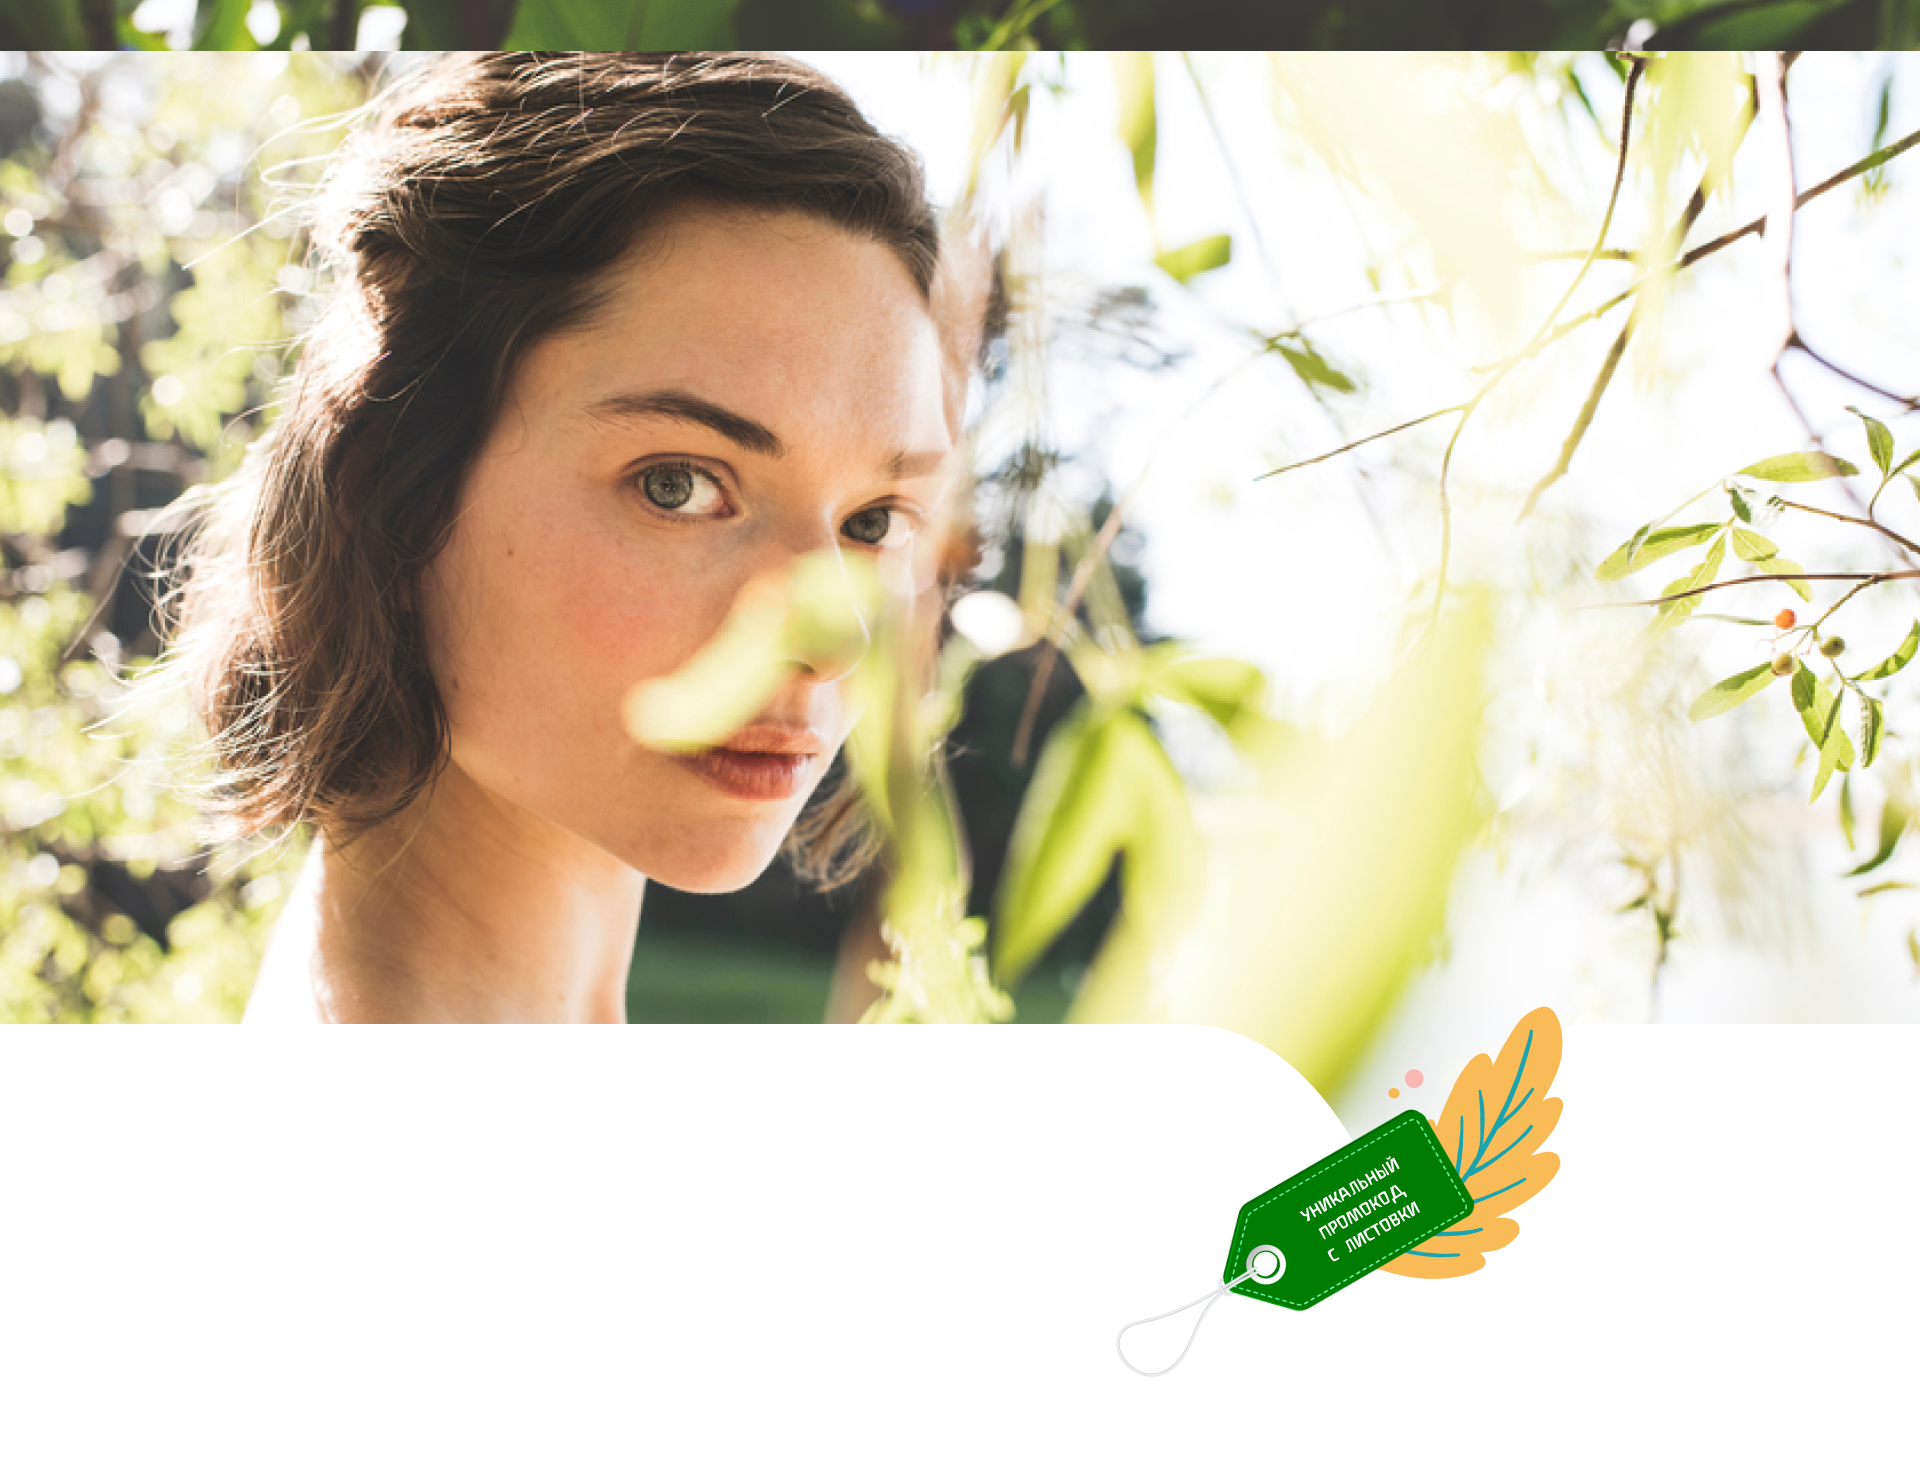
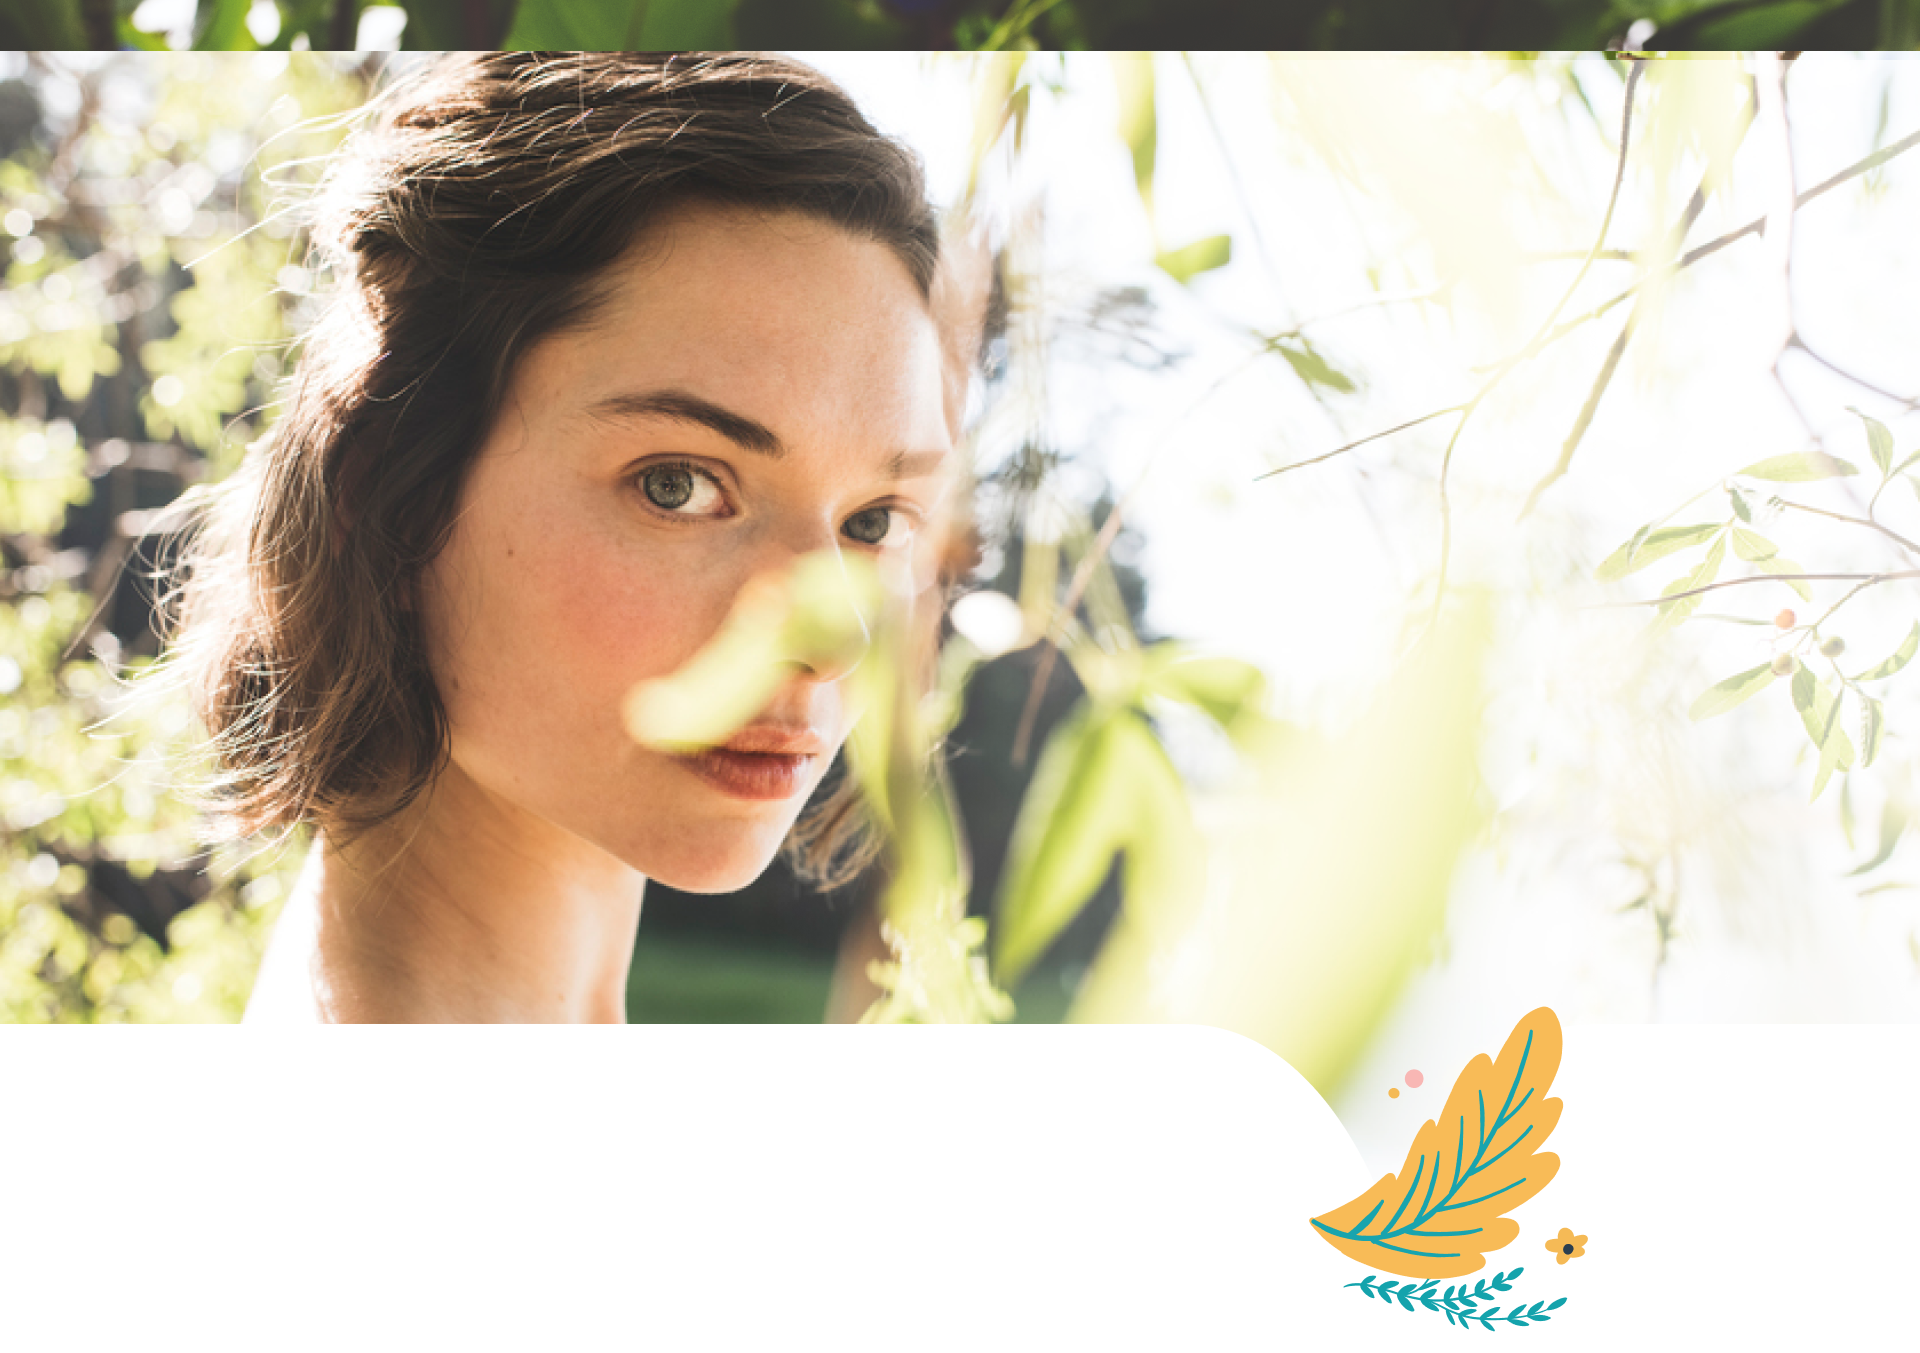
fix main page

diff --git a/dev/components/Roadmap/Roadmap.scss b/dev/components/Roadmap/Roadmap.scss
@@ -33,6 +33,17 @@ p, h3{
             margin-right: 6px;
             padding-bottom: 91px;
             padding-left: 51px;
+            position: relative;
+            .imgWrap{
+                //max-width: 36.4%;
+                img{
+                    position: absolute;
+                    //height: 448px;
+                    right: -3px;
+                    bottom: -120px;
+                    
+                }
+            }
             .RoadmapNumb{
                 color: rgba(244, 186, 86, 0.25);
                 left: -26px;
@@ -122,7 +133,7 @@ p, h3{
             margin-right: 3px;
             padding-top: 12px;
             padding-left: 55px;
-            &::before{
+            &::after{
                 content: '';
                 position: absolute;
                 background-color: #fff;
@@ -138,7 +149,9 @@ p, h3{
                 left: -24px;
                 z-index: 1;
                 width: 182px;
-                text-align:right;
+                text-align:center;
+                line-height: 260px;
+                
                 span{
                     left: -16px;
                     top: 84px;
@@ -190,24 +203,38 @@ p, h3{
         }
     }
 }
+
+
+@media (max-width:1450px){
+    .RoadmapBlock:nth-child(1){
+        h3, p{
+            max-width: 481px;
+        }
+        .imgWrap{
+            img{
+                right: 30px;
+                bottom: -94px;
+                height: 350px;
+            }
+        }
+    }
+}
 @media (max-width:1200px){
     .RoadmapBlock:nth-child(1){
         padding-bottom: 33px;
         h3, p{
             max-width: 408px;
         }
+        .imgWrap{
+            img{
+                height:300px;
+            }
+        }
     }
     .RoadmapBlock:nth-child(2) {
         min-height: 230px;
         .RoadmapNumb{
     padding-right: 20px;
-        }
-    }
-    .RoadmapBlock:nth-child(3){
-        .RoadmapNumb{
-            padding-top: 30px;
-            padding-left: 34px;
-            text-align: left;
         }
     }
     }
@@ -227,9 +254,7 @@ p, h3{
         }
         .RoadmapBlock:nth-child(3){
             .RoadmapNumb{
-            padding-top: 50px;
-            padding-left: 54px;
-    
+                top: -110px;
             }
             .RoadmapImgContainer img{
                 width: 350px
@@ -245,6 +270,13 @@ p, h3{
             padding-bottom: 40px;
             h3, p{
                 max-width: 260px;
+            }
+            .imgWrap{
+                img{
+                    right: 19px;
+                    bottom: -77px;
+                    height: 260px;
+                }
             }
         }
     }
@@ -263,7 +295,7 @@ p, h3{
         }
     } 
     .Roadmap{
-        margin: 57px 0 0;
+        margin: 48px 0 0;
         padding: 0;
         .RoadmapBlock{
             border-width: 1px;
@@ -271,6 +303,11 @@ p, h3{
         .RoadmapBlock:nth-child(1) {
             padding-left: 30px;
             padding-bottom: 24px;
+            .imgWrap{
+                img{
+                    display: none;
+                }
+            }
             &::before {
                 content: '';
                 position: absolute;
@@ -368,24 +405,20 @@ p, h3{
                 padding-left:0;
                 position: relative;
                 padding-bottom: 0;
+                &::after{
+                    background-color: transparent;
+                }
                 .RoadmapTextContainer{
                     border-left: 1px solid #000000;
                     padding-left: 45px;
-                    padding-top: 50px;
+                    padding-top: 51px;
                     z-index: 1;
 
                     h3{
                         max-width: 139px;
                 }
                 }
-                &::before{
-                     width: 3px;
-                    height: 35px;
-                    top: auto;
-                    bottom: 0px;
-                    left: -1px;
-                    // z-index: 0;
-                }
+                
                 .RoadmapNumb{
                     // color: rgba(0, 171, 136, 0.25);
                     // top: -100px;
@@ -393,14 +426,25 @@ p, h3{
                     // z-index: 1;
                     // width: 182px;
                     // text-align:right;
+                    left: -38px;
+                    line-height: 100px;
                     top: auto;
-                    bottom: 23px;
-                    left: -33px;
+                    bottom: 8px;
+                    &::after{
+                        content: '';
+                        position: absolute;
+                        background-color: #fff;
+                        width: 3px;
+                        height: 35px;
+                        bottom: -15px;
+                        left: 37px;
+                   }
                     span{
-                        left: 15px;
+                        left: 20px;
     top: auto;
     bottom: -27px;
-    z-index: 0;
+    z-index: 1;
+
                         // left: -16px;
                         // top: 84px;
                         // border-color: #00AB88;
@@ -437,7 +481,7 @@ p, h3{
 @media (max-width:530px){
     .Roadmap{
         h3, p{
-            max-width: 200px;
+            max-width: 200px!important; 
         }
         .RoadmapBlock{
             //padding-bottom: 20px;
@@ -449,6 +493,13 @@ p, h3{
     .RoadmapBlock:nth-child(3){
         .RoadmapImgContainer img{
             width: 192.07px;
+        }
+}
+}
+@media (max-width:380px){
+    .Roadmap{
+        h3, p{
+            max-width: 150px!important; 
         }
 }
 }

diff --git a/dev/components/Roadmap/Roadmap.js b/dev/components/Roadmap/Roadmap.js
@@ -6,13 +6,20 @@ import './Roadmap.scss'
 import plane from '../../img/plane.png';
 import priz from '../../img/prizes.png';
 import promo from '../../img/promoTop.png'
-export default class Main extends Component {
-    render() {
+import birka from '../../img/birka.png'
+import useMediaQuery from '@material-ui/core/useMediaQuery';
+import json2mq from 'json2mq';
+const Roadmap = () =>{
+        const matches = useMediaQuery(
+            json2mq({
+              minWidth: 730,
+            }),)
         return (
             <Grid className='RoadmapWrap' container justify='center'>
                 <Grid item sm={8} xs={9}> 
             <Grid container direction='column' className={'Roadmap'} id='c_rules'>
                 {/* <Grid item xs={8} className={'RoadmapContainer'}> */}
+                
                     <div className='RoadmapBlock'>
                         <img src={promo} className='RoadmapPromo'/>
 
@@ -25,6 +32,9 @@ export default class Main extends Component {
                             <p>
                             и присоединяйся к программе подготовки амбассадоров
                             </p>
+                            <Grid item className="imgWrap">
+                                <img src={birka}/>
+                            </Grid>
                     </div>
                     <Grid container direction='row-reverse' alignItems='center' justify='space-between' className='RoadmapBlock'>
                         <Grid item className='RoadmapTextContainer'>
@@ -52,8 +62,10 @@ export default class Main extends Component {
                             <span className='RoadmapNumb'>3
                             <span className='RoadmapNumbLine'/>                            </span>
                             <h3>
-                            Выиграй поездку в Германию
-                            в сады Weleda
+                                {matches?`Выиграй поездку в Германию
+                            в сады Weleda`:"Выиграй поездку в Германию"
+                            }
+                            
                             </h3>
                             <p>
                             или годовой запас косметики Weleda
@@ -70,4 +82,5 @@ export default class Main extends Component {
             </Grid>
         )
     }
-}
+
+export default Roadmap;

diff --git a/dev/components/Top/Top.js b/dev/components/Top/Top.js
@@ -10,11 +10,13 @@ import { Link } from "react-router-dom";
 import useReactRouter from 'use-react-router'
 import { Link as ScrollLink, animateScroll as scroll } from "react-scroll";
 
-const Main =()=> {
+const Main =({toLink=`/#c_rules`,toID=`c_rules`, btnText="Выполнить задание"})=> {
     const {history} = useReactRouter()
     const handleClick = () => {
         if (window.location.pathname !== '') {
-            history.push(`/#c_rules`)
+            history.push(toLink)
+    console.log(toLink)
+
         }
     }
         return (
@@ -28,13 +30,22 @@ const Main =()=> {
                                 Стань<br/> амбассадором бренда <br/>
                                 и выиграй призы<br/> от Weleda
                             </h1>
-                            <Button variant='contained'>
-                                Выполнить задание
-                            </Button>
                             <ScrollLink
                                     onClick={handleClick}
                                     activeClass="active"
-                                    to={'c_rules'}
+                                    to={toID}
+                                    smooth
+                                    duration={700}
+                                    //ignoreCancelEvents
+                                >
+                                   <Button variant='contained'>
+                                {btnText}
+                            </Button>
+                                </ScrollLink>
+                            <ScrollLink
+                                    onClick={handleClick}
+                                    activeClass="active"
+                                    to={toID}
                                     smooth
                                     duration={700}
                                     //ignoreCancelEvents

diff --git a/dev/components/App/pages/winners/winners.js b/dev/components/App/pages/winners/winners.js
@@ -16,11 +16,11 @@ import winnerNabor from '../../../../img/winnerNabor.png'
 const main = () => {
     return (
         <>  
-            <Top/>
+            <Top btnText="Узнать победителей" toLink="/winners" toID="winners"/>
             <Grid container justify="center">
                 <Grid item xs={12} className="winnersContainer">
                     <Grid container justify="center">
-                        <Grid item xs={6}>
+                        <Grid item xs={6} id="winners">
                             <Grid container>
                                 <Grid container className="winnersCard">
                                     <Grid item xs={4} className="imgWrap">

diff --git a/dev/components/Top/Top.scss b/dev/components/Top/Top.scss
@@ -5,7 +5,7 @@
 //    width: 100%;
     margin: 0 auto -18.65%;
     max-width:1920px;
-    z-index: 1;
+    //z-index: 1;
     &Img{
 
     }
@@ -19,7 +19,7 @@
         //height: 100%;
         width: 100%;
         min-height: 313px;
-
+        background-position: -27px -17px;
         background-image: url('../../img/top.png');
         background-repeat: no-repeat;
         background-size: cover;
@@ -180,7 +180,7 @@
             background-size: 100%;
 
             background-repeat: no-repeat;
-            height: adaptiv-get(1376, 313);
+            height: adaptiv-get(1376, 353);
             padding: 0 16px;
         }
         #cta{

diff --git a/dev/components/App/App.js b/dev/components/App/App.js
@@ -56,7 +56,7 @@ const App = () => {
                                 exact
                                 /> */}
                             <Route path={"/reg"} render={() => <Registration/>}/>
-                            <Route path={"/winners"} exact render={() => <Winners/>}/>
+                            <Route path={"/winners"} render={() => <Winners/>}/>
                             <Route path={"/cabinet"} render={() => <Cabinet/>}/>
                             <Route key='index' location={location} path={"/"} render={() => 
                                 <Main/>} exact/>

diff --git a/dev/components/App/pages/winners/winners.scss b/dev/components/App/pages/winners/winners.scss
@@ -1,5 +1,6 @@
+@import '../../../../mixins.scss';
 div.winnersContainer{
-    padding-top: 300px;
+    padding-top: 162px;
     max-width: 1700px;
     background-image: url("../../../../img/winnersBG.svg");
     background-size: 1163px 911px;
@@ -23,6 +24,7 @@ div.winnersContainer{
             font-size: 24px;
             line-height: 150%;
             color: #FFFFFF;
+            z-index: 1;
             .imgWrap{
                 background-image: url("../../../../img/winner.png");
                 max-width:270px
